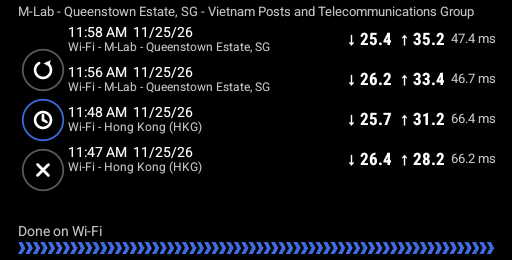
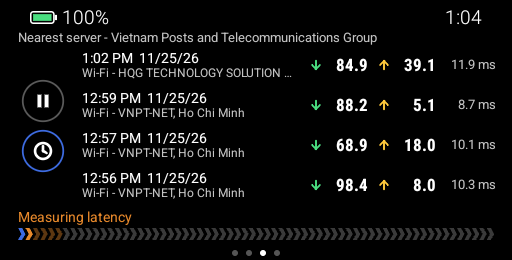
feat: test against nearby Speedtest servers and polish the speed test

diff --git a/app/src/main/java/vn/lit/screenos/SpeedTest.kt b/app/src/main/java/vn/lit/screenos/SpeedTest.kt
@@ -32,7 +32,7 @@ class SpeedTest(private val listener: (Snapshot) -> Unit) {
         val transferred: Long = 0,
     )
 
-    private abstract inner class Backend(val host: String, val label: String, val streams: Int) {
+    private abstract inner class Backend(val host: String, val label: String, val streams: Int, val port: Int = 443) {
         val address: InetAddress by lazy { InetAddress.getByName(host) }
         abstract fun download(total: AtomicLong)
         abstract fun upload(total: AtomicLong)
@@ -66,6 +66,58 @@ class SpeedTest(private val listener: (Snapshot) -> Unit) {
                 if (!cancelled.get()) connection.responseCode
             } finally { release(connection) }
         }
+    }
+
+    /** Speedtest.net (Ookla) server, found through the same server list the Speedtest website uses. */
+    private inner class Ookla(private val base: String, host: String, port: Int, label: String) : Backend(host, label, 6, port) {
+        override fun download(total: AtomicLong) {
+            val connection = open("$base/download?nocache=${System.nanoTime()}&size=$CHUNK")
+            try {
+                connection.inputStream.use { input ->
+                    val buffer = ByteArray(64 * 1024)
+                    while (!cancelled.get()) { val read = input.read(buffer); if (read < 0) break; total.addAndGet(read.toLong()) }
+                }
+            } finally { release(connection) }
+        }
+
+        override fun upload(total: AtomicLong) {
+            val connection = open("$base/upload?nocache=${System.nanoTime()}").apply {
+                requestMethod = "POST"; doOutput = true
+                setRequestProperty("Content-Type", "application/octet-stream")
+                setFixedLengthStreamingMode(UPLOAD_CHUNK)
+            }
+            try {
+                connection.outputStream.use { output ->
+                    var sent = 0L
+                    while (sent < UPLOAD_CHUNK && !cancelled.get()) {
+                        val size = minOf(PAYLOAD.size.toLong(), UPLOAD_CHUNK - sent).toInt()
+                        output.write(PAYLOAD, 0, size); sent += size; total.addAndGet(size.toLong())
+                    }
+                }
+                if (!cancelled.get()) connection.responseCode
+            } finally { release(connection) }
+        }
+    }
+
+    private fun ooklaServers(limit: Int): List<Backend> {
+        val connection = (URL(OOKLA_SERVERS).openConnection() as HttpURLConnection).apply {
+            connectTimeout = 4000; readTimeout = 4000; useCaches = false
+            // The server list rejects requests that do not look like the Speedtest website.
+            setRequestProperty("User-Agent", BROWSER)
+            setRequestProperty("Accept", "application/json, text/plain, */*")
+            setRequestProperty("Referer", "https://www.speedtest.net/")
+            setRequestProperty("Sec-Fetch-Dest", "empty"); setRequestProperty("Sec-Fetch-Mode", "cors"); setRequestProperty("Sec-Fetch-Site", "same-origin")
+        }
+        try {
+            val servers = org.json.JSONArray(connection.inputStream.use { it.readBytes().decodeToString() })
+            return (0 until servers.length()).mapNotNull { i ->
+                val server = servers.getJSONObject(i)
+                val host = server.optString("host").takeIf { it.contains(':') } ?: return@mapNotNull null
+                val name = server.optString("name"); val sponsor = server.optString("sponsor")
+                val label = listOf(sponsor, name).filter { it.isNotBlank() }.joinToString(", ").ifBlank { host }
+                Ookla("https://$host", host.substringBeforeLast(':'), host.substringAfterLast(':').toIntOrNull() ?: 8080, label)
+            }.take(limit)
+        } finally { connection.disconnect() }
     }
 
     private inner class MLab(private val server: Ndt7.Server) : Backend(server.host, listOf("M-Lab", listOf(server.city, server.country).filter { it.isNotBlank() }.joinToString(", ")).filter { it.isNotBlank() }.joinToString(" - "), 1) {
@@ -149,11 +201,14 @@ class SpeedTest(private val listener: (Snapshot) -> Unit) {
         }
         emit(state.copy(isp = isp, progress = .02f))
         val candidates = mutableListOf<Backend>(Cloudflare(cloudflareLabel))
+        runCatching { candidates.addAll(ooklaServers(5)) }
         runCatching { Ndt7.locate(3).forEach { candidates.add(MLab(it)) } }
-        val ranked = candidates.mapNotNull { backend ->
-            if (cancelled.get()) return@mapNotNull null
-            List(3) { ping(backend) }.filterNotNull().minOrNull()?.let { backend to it }
-        }
+        emit(state.copy(progress = .03f))
+        val pings = java.util.concurrent.ConcurrentHashMap<Backend, Double>()
+        candidates.map { backend ->
+            Thread({ List(3) { ping(backend) }.filterNotNull().minOrNull()?.let { pings[backend] = it } }).apply { isDaemon = true; start() }
+        }.forEach { it.join(6000) }
+        val ranked = candidates.mapNotNull { backend -> pings[backend]?.let { backend to it } }
         if (ranked.isEmpty()) throw IOException("No reachable server")
         return ranked.sortedBy { it.second }.map { it.first }
     }
@@ -162,7 +217,7 @@ class SpeedTest(private val listener: (Snapshot) -> Unit) {
         val address = backend.address
         Socket().use { socket ->
             val started = System.nanoTime()
-            socket.connect(InetSocketAddress(address, 443), 1500)
+            socket.connect(InetSocketAddress(address, backend.port), 1500)
             (System.nanoTime() - started) / 1_000_000.0
         }
     } catch (_: IOException) { null }
@@ -246,6 +301,8 @@ class SpeedTest(private val listener: (Snapshot) -> Unit) {
 
     companion object {
         private const val CLOUDFLARE = "https://speed.cloudflare.com"
+        private const val OOKLA_SERVERS = "https://www.speedtest.net/api/js/servers?engine=js&limit=10&https_functional=true"
+        private const val BROWSER = "Mozilla/5.0 (Linux; Android 14) AppleWebKit/537.36 (KHTML, like Gecko) Chrome/157.0.0.0 Mobile Safari/537.36"
         private const val PROBES = 20
         private const val DOWNLOAD_MS = 10_000L
         private const val UPLOAD_MS = 10_000L

diff --git a/app/src/main/java/vn/lit/screenos/SpeedTestView.kt b/app/src/main/java/vn/lit/screenos/SpeedTestView.kt
@@ -39,7 +39,7 @@ class SpeedTestView(
     private val jitter = stat()
     private val loss = stat()
     private val results = LinearLayout(context)
-    private val history = LinearLayout(context).apply { orientation = VERTICAL }
+    private val history = LinearLayout(context).apply { orientation = VERTICAL; setPadding(Ui.dp(context, 14), 0, 0, 0) }
     private val historyScroll = ScrollView(context).apply { addView(history); visibility = GONE; isVerticalScrollBarEnabled = false }
     private val status = small("", 14f, ORANGE).apply { maxLines = 1; ellipsize = TextUtils.TruncateAt.END }
     private val bar = ChevronBar(context)
@@ -63,8 +63,8 @@ class SpeedTestView(
         results.addView(LinearLayout(context).apply {
             orientation = VERTICAL; gravity = Gravity.CENTER_VERTICAL
             addView(statRow(R.string.ui_speedtest_ping, ping, "ms"))
-            addView(statRow(R.string.ui_speedtest_ping_down, pingDown, "ms"))
-            addView(statRow(R.string.ui_speedtest_ping_up, pingUp, "ms"))
+            addView(statRow(R.string.ui_speedtest_ping, pingDown, "ms", arrow = false, description = R.string.ui_speedtest_ping_down))
+            addView(statRow(R.string.ui_speedtest_ping, pingUp, "ms", arrow = true, description = R.string.ui_speedtest_ping_up))
             addView(statRow(R.string.ui_speedtest_jitter, jitter, "ms"))
             addView(statRow(R.string.ui_speedtest_loss, loss, "%"))
         }, LayoutParams(Ui.dp(context, 150), -1))
@@ -98,9 +98,13 @@ class SpeedTestView(
         }, LayoutParams(-2, -2).apply { leftMargin = Ui.dp(context, 8) })
     }
 
-    private fun statRow(label: Int, value: TextView, unit: String) = LinearLayout(context).apply {
-        gravity = Gravity.CENTER_VERTICAL
-        addView(small(I18n.text(label), 13f, Ui.muted).apply { maxLines = 1 }, LayoutParams(0, -2, 1f))
+    private fun statRow(label: Int, value: TextView, unit: String, arrow: Boolean? = null, description: Int = label) = LinearLayout(context).apply {
+        gravity = Gravity.CENTER_VERTICAL; contentDescription = I18n.text(description)
+        addView(LinearLayout(context).apply {
+            gravity = Gravity.CENTER_VERTICAL
+            addView(small(I18n.text(label), 13f, Ui.muted).apply { maxLines = 1 })
+            if (arrow != null) addView(HotspotView.Arrow(context, arrow), LayoutParams(Ui.dp(context, 12), Ui.dp(context, 12)).apply { leftMargin = Ui.dp(context, 4) })
+        }, LayoutParams(0, -2, 1f))
         addView(value)
         addView(small(unit, 12f, Ui.muted), LayoutParams(Ui.dp(context, 22), -2).apply { leftMargin = Ui.dp(context, 3) })
         setPadding(0, Ui.dp(context, 3), 0, Ui.dp(context, 3))
@@ -153,8 +157,14 @@ class SpeedTestView(
                 addView(small("${time.format(Date(entry.time))}  ${date.format(Date(entry.time))}", 14f, Color.WHITE))
                 addView(small(listOfNotNull(entry.network, entry.server).joinToString(" - "), 12f, Ui.muted).apply { maxLines = 1; ellipsize = TextUtils.TruncateAt.END })
             }, LayoutParams(0, -2, 1f))
-            addView(small("↓ ${format(entry.download)}  ↑ ${format(entry.upload)}", 17f, Color.WHITE).apply { typeface = bold })
-            addView(small(entry.ping?.let { "  ${format(it)} ms" } ?: "", 13f, Ui.muted))
+            // Fixed-width columns keep arrows and numbers aligned between rows.
+            fun speed(value: Double, up: Boolean) {
+                addView(HotspotView.Arrow(context, up), LayoutParams(Ui.dp(context, 12), Ui.dp(context, 12)).apply { leftMargin = Ui.dp(context, 10) })
+                addView(small(format(value), 17f, Color.WHITE).apply { typeface = bold; gravity = Gravity.END }, LayoutParams(Ui.dp(context, 46), -2))
+            }
+            speed(entry.download, false)
+            speed(entry.upload, true)
+            addView(small(entry.ping?.let { "${format(it)} ms" } ?: "", 13f, Ui.muted).apply { gravity = Gravity.END }, LayoutParams(Ui.dp(context, 60), -2))
         })
     }
 

diff --git a/README.md b/README.md
@@ -4,9 +4,9 @@
 
 Open apps on your **Galaxy Z Flip3 cover screen**. Foldlet adds an app drawer, search, favorites, and navigation alongside Samsung’s native clock and widgets.
 
-**[Download APK 0.12.0](https://github.com/luongwnv/Foldlet/releases/download/v0.12.0/Foldlet-0.12.0.apk)** - **0.12.0 beta** - Tested on **SM-F711B, Android 14 / One UI 6.1.1**.
+**[Download APK 0.12.1](https://github.com/luongwnv/Foldlet/releases/download/v0.12.1/Foldlet-0.12.1.apk)** - **0.12.1 beta** - Tested on **SM-F711B, Android 14 / One UI 6.1.1**.
 
-[Foldlet Controls 1.1.0 (Optional)](https://github.com/luongwnv/Foldlet/releases/download/v0.12.0/Foldlet-Controls-1.1.0.apk) enables one-tap Wi-Fi and Bluetooth without a computer.
+[Foldlet Controls 1.1.0 (Optional)](https://github.com/luongwnv/Foldlet/releases/download/v0.12.1/Foldlet-Controls-1.1.0.apk) enables one-tap Wi-Fi and Bluetooth without a computer.
 
 ## Screenshots
 
@@ -38,12 +38,12 @@ Actual captures of the native Android interface running on a dedicated test emul
 - An optional cover keyboard for text fields in other apps, with offline swipe typing (Beta).
 - Optional sensor-driven Auto, portrait, and landscape rotation through a USB connection to your computer.
 - **Hotspot mode**: a pocket Wi-Fi style cover screen with live upload and download speed, data usage, a Wi-Fi QR code, a speed test, and a dimmed gray always-on view.
-- **Speed test** for Wi-Fi or mobile data: Download, Upload, Ping, Ping while loaded, Jitter, and Packet loss on the lowest-ping public server, with on-device history.
+- **Speed test** for Wi-Fi or mobile data: Download, Upload, Ping, Ping while loaded, Jitter, and Packet loss on the lowest-ping nearby server, including Speedtest.net servers, with on-device history.
 - Cover clock options: keep the Samsung clock on, and keep a 3D AR Emoji avatar moving.
 
 ## Getting started
 
-1. Download **Foldlet-0.12.0.apk** from [Releases](https://github.com/luongwnv/Foldlet/releases), open it on your phone, and allow installation from that source when Android asks.
+1. Download **Foldlet-0.12.1.apk** from [Releases](https://github.com/luongwnv/Foldlet/releases), open it on your phone, and allow installation from that source when Android asks.
 2. Open **Foldlet** on the inner screen. In **Overview**, grant **Display over other apps** and enable the **Foldlet** service in Android’s **Accessibility** settings.
 3. Grant **Usage access** to use Recent apps. Allow notifications if you want the service notification and its **Stop** button.
 4. Turn on the Foldlet service, fold your phone, and wake the cover screen.
@@ -120,9 +120,9 @@ In **Settings > Home shortcuts**, enable or disable the top-edge swipe, select a
 
 On the cover panel, **tap Wi-Fi or Bluetooth to switch it** using Foldlet Controls. **Touch and hold** any tile for system settings. Sound switches between ringing and vibration; Display and Settings open their controls.
 
-When there are more than eight tiles, swipe sideways to switch pages. The second page holds **Clock on**, **Hotspot screen**, and **Speed test** by default: the first two switch those modes on or off, and Speed test opens a full-screen test that starts right away.
+When there are more than eight tiles, swipe sideways to switch pages. The second page holds **Clock on**, **Hotspot mode**, and **Speed test** by default: the first two switch those modes on or off, and Speed test opens a full-screen test that starts right away.
 
-<p align="center"><img src="docs/images/shortcuts-modes.png" width="512" alt="Second shortcuts page with Clock on, Hotspot screen and Speed test"></p>
+<p align="center"><img src="docs/images/shortcuts-modes.png" width="512" alt="Second shortcuts page with Clock on, Hotspot mode and Speed test"></p>
 
 Blue indicates on; a dimmed tile indicates a change in progress. Hotspot, mobile data, sound, airplane mode, and location update from the device state. Each tile shows its state below the label; unavailable readings are marked explicitly. Network mode shows the configured preference when One UI exposes it, and Display shows automatic/manual brightness. The panel fills the cover screen and uses the installed Samsung icons when available.
 
@@ -150,7 +150,7 @@ Hotspot state detection requires **Foldlet Controls 1.1.0**. If a routine cannot
 
 <p align="center"><img src="docs/images/hotspot-mode.png" width="512" alt="Hotspot mode showing live upload and download speed and data usage"></p>
 
-Turn on **Settings > Hotspot mode**, or tap **Hotspot screen** in Shortcuts. Foldlet then shows this screen instead of the Samsung clock. Swipe sideways through four pages:
+Turn on **Settings > Hotspot mode**, or tap **Hotspot mode** in Shortcuts. Foldlet then shows this screen instead of the Samsung clock. Swipe sideways through four pages:
 
 1. **Speed and usage**: live upload and download speed, plus mobile data used today, this month, and since the screen turned on. While the hotspot is on, the speed is measured on the hotspot itself, so it is correct whether the hotspot shares Wi-Fi or mobile data. Otherwise it shows mobile data traffic.
 2. **Wi-Fi**: a QR code that other phones can scan to join, with the network name and password.
@@ -177,11 +177,11 @@ Android does not let apps read the hotspot password. Open **Settings > Connectio
 
 Open the third page of Hotspot mode, or tap **Speed test** in Shortcuts. Foldlet tests the network the phone is using, Wi-Fi or mobile data:
 
-- **Server**: like Speedtest, Foldlet pings several nearby servers and tests the one that answers fastest. Candidates are Cloudflare’s nearest speed test server and the nearest [M-Lab](https://www.measurementlab.net/) NDT servers. If a server refuses the test, the next one is used. The top line shows the server and your Internet provider.
+- **Server**: like Speedtest, Foldlet pings several nearby servers and tests the one that answers fastest. Candidates are the five nearest Speedtest.net servers, Cloudflare’s nearest speed test server, and the nearest [M-Lab](https://www.measurementlab.net/) NDT servers. In Vietnam this is usually a Speedtest.net server inside a local network. If a server refuses the test, the next one is used. The top line shows the server and your Internet provider.
 - **Results**: download and upload in Mbps, Ping, Ping while downloading and uploading, Jitter, and Packet loss. Like Speedtest, the slowest 30% and fastest 10% of samples are left out of the speed.
 - **History**: tap the clock button to see the last 20 results, saved only on this phone.
 
-Speedtest.net servers inside Vietnamese networks belong to Ookla and require a license, so Foldlet cannot use them. Results through Singapore or Hong Kong can be lower than Speedtest.net. Packet loss is estimated from failed ping attempts. One test can use up to 300 MB download and 150 MB upload, which counts toward a mobile data plan. The test server sees your IP address, and [M-Lab publishes its test data openly](https://www.measurementlab.net/privacy/), including IP addresses.
+Speedtest.net servers are found and used through the same unofficial endpoints as the Speedtest website, not a public Ookla API. Ookla may change or block them at any time; Foldlet then falls back to Cloudflare or M-Lab, whose results through Singapore or Hong Kong can be lower. Packet loss is estimated from failed ping attempts. One test can use up to 300 MB download and 150 MB upload, which counts toward a mobile data plan. The test server sees your IP address, and [M-Lab publishes its test data openly](https://www.measurementlab.net/privacy/), including IP addresses.
 
 ### Cover clock options
 
@@ -223,7 +223,7 @@ Permission shortcuts are available in **Overview**. You can revoke permissions i
 </tbody>
 </table>
 
-Recent-app data is read on your device, is not sent to a server, and is not saved as a separate usage history. Foldlet keeps dismissal timestamps so closed cards stay hidden until their apps are used again. Input to other apps is write-only: existing field contents are not read or recorded. Swipe traces and suggestions stay in memory and are discarded when the keyboard closes. While closing tasks or returning from notifications to Samsung’s clock, Foldlet holds a temporary rendering of its own menu in memory and discards it afterward; it does not capture other apps or save screenshots. Notification content is obtained on demand through Notification access and kept only in the visible on-device list. Its network connection is used for the ADB rotation bridge on localhost and, only when you start a speed test, for test traffic to Cloudflare and M-Lab.
+Recent-app data is read on your device, is not sent to a server, and is not saved as a separate usage history. Foldlet keeps dismissal timestamps so closed cards stay hidden until their apps are used again. Input to other apps is write-only: existing field contents are not read or recorded. Swipe traces and suggestions stay in memory and are discarded when the keyboard closes. While closing tasks or returning from notifications to Samsung’s clock, Foldlet holds a temporary rendering of its own menu in memory and discards it afterward; it does not capture other apps or save screenshots. Notification content is obtained on demand through Notification access and kept only in the visible on-device list. Its network connection is used for the ADB rotation bridge on localhost and, only when you start a speed test, for test traffic to Speedtest.net, Cloudflare, and M-Lab servers.
 
 **Foldlet Controls (Optional)** uses Wi-Fi state/change and legacy Bluetooth permissions to switch those two radios and read Wi-Fi, Bluetooth, hotspot, and configured network-mode state. It does not scan networks or devices, read their names, access location, or connect to the internet. Only Foldlet signed with the matching certificate can call its service. The helper uses Android’s older compatibility APIs; Foldlet itself continues to target modern Android.
 

diff --git a/docs/DEVELOPMENT.md b/docs/DEVELOPMENT.md
@@ -31,7 +31,7 @@ Beta release builds are not debuggable. They use the existing local development 
 | `SamsungCoverPage` | Samsung clock/widget coexistence |
 | `SettingsScreen` | Settings and the actual drawer preview |
 | `HotspotView` / `HotspotWifi` / `HotspotWifiReader` | Hotspot mode pages, Wi-Fi QR code (ZXing core), and reading the hotspot name and password from Samsung's settings page |
-| `SpeedTest` / `Ndt7` / `SpeedTestView` | Lowest-ping server selection, Cloudflare and M-Lab ndt7 measurements, and the cover speed test UI |
+| `SpeedTest` / `Ndt7` / `SpeedTestView` | Lowest-ping server selection across Speedtest.net, Cloudflare, and M-Lab ndt7, measurements, and the cover speed test UI |
 | `AvatarReplay` | Restarts the AR Emoji cover wallpaper animation by briefly hiding the wallpaper |
 
 The keyboard verifies the focused cover package and input-session generation before each write. Existing editor contents are not read. Candidate replacement is restricted to the known word length and expected cursor position. Password fields disable gesture suggestions. The bundled basic swipe vocabulary is original, with no external dictionary dependency.
